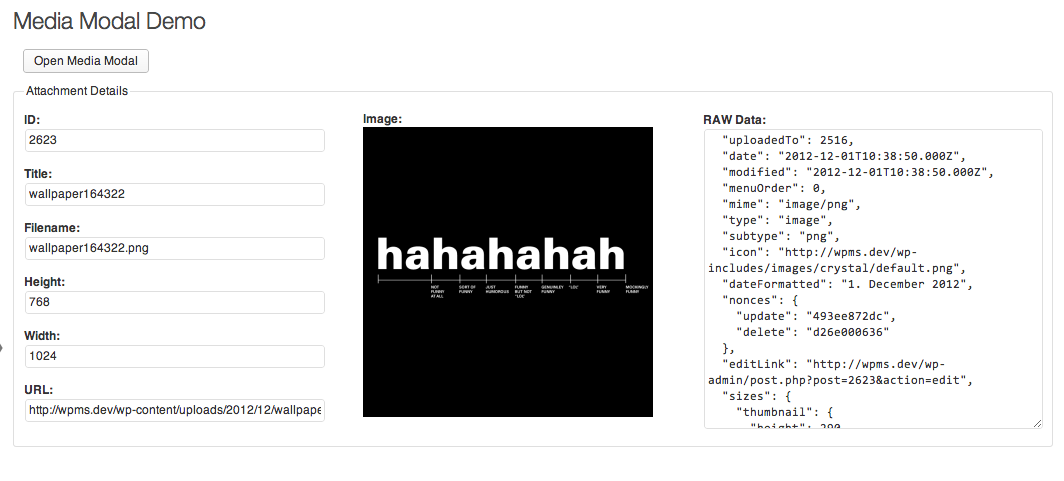
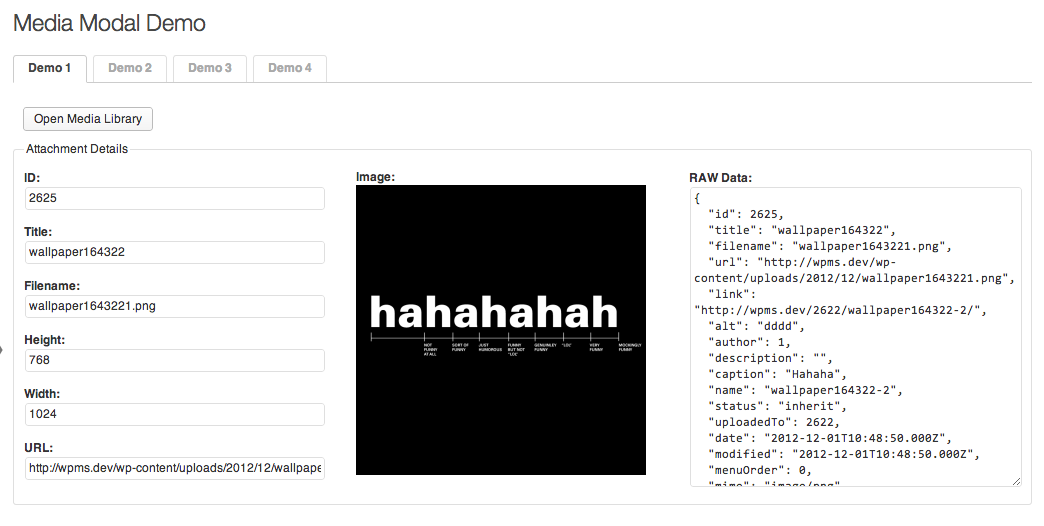
Version 0.3: Third and fourth demo

diff --git a/js/media-modal-demo-4.js b/js/media-modal-demo-4.js
@@ -1,0 +1,70 @@
+var mediaUploaderDemo = mediaUploaderDemo || {};
+
+( function( $ ) {
+	mediaUploaderDemo = {
+		frame: function() {
+			if ( this._frame )
+				return this._frame;
+
+			this._frame = wp.media( {
+				title: 'Select Your Images',
+				button: {
+					text: 'Choose'
+				},
+				multiple: true,
+				library: {
+					type: 'image'
+				}
+			} );
+
+			this._frame.on( 'ready', this.ready );
+
+			this._frame.state( 'library' ).on( 'select', this.select );
+
+			return this._frame;
+		},
+
+		ready: function() {
+			$( '.media-modal' ).addClass( 'no-sidebar smaller' );
+		},
+
+		select: function() {
+			var settings = wp.media.view.settings,
+				selection = this.get( 'selection' );
+
+			$( '.added' ).remove();
+			selection.map( mediaUploaderDemo.showAttachmentDetails );
+		},
+
+		showAttachmentDetails: function( attachment ) {
+			var details_tmpl = $( '#attachment-details-tmpl' ),
+				details = details_tmpl.clone();
+
+			details.addClass( 'added' );
+
+			$( 'input', details ).each( function() {
+				var key = $( this ).attr( 'id' ).replace( 'attachment-', '' );
+				$( this ).val( attachment.get( key ) );
+			} );
+
+			details.attr( 'id', 'attachment-details-' + attachment.get( 'id' ) );
+
+			var sizes = attachment.get( 'sizes' );
+			$( 'img', details ).attr( 'src', sizes.thumbnail.url );
+
+			$( 'textarea', details ).val( JSON.stringify( attachment, null, 2 ) );
+
+			details_tmpl.after( details );
+		},
+
+		init: function() {
+			$( '#open-media-modal' ).on( 'click', function( e ) {
+				e.preventDefault();
+
+				mediaUploaderDemo.frame().open();
+			});
+		}
+	};
+
+	$( mediaUploaderDemo.init );
+} )( jQuery );

diff --git a/js/media-modal-demo-3.js b/js/media-modal-demo-3.js
@@ -1,0 +1,63 @@
+var mediaUploaderDemo = mediaUploaderDemo || {};
+
+( function( $ ) {
+	mediaUploaderDemo = {
+		frame: function() {
+			if ( this._frame )
+				return this._frame;
+
+			this._frame = wp.media( {
+				title: 'Select An Image',
+				button: {
+					text: 'Select'
+				},
+				multiple: false,
+				library: {
+					type: 'image'
+				}
+			} );
+
+			this._frame.on( 'ready', this.ready );
+
+			this._frame.state( 'library' ).on( 'select', this.select );
+
+			return this._frame;
+		},
+
+		ready: function() {
+			$( '.media-modal' ).addClass( 'no-sidebar smaller' );
+		},
+
+		select: function() {
+			var settings = wp.media.view.settings,
+				selection = this.get( 'selection' ).single();
+
+			mediaUploaderDemo.showAttachmentDetails( selection );
+			this._frame.trigger('destroy');
+		},
+
+		showAttachmentDetails: function( attachment ) {
+			var details = $( '#attachment-details' );
+
+			$( 'input', details ).each( function() {
+				var key = $( this ).attr( 'id' ).replace( 'attachment-', '' );
+				$( this ).val( attachment.get( key ) );
+			} );
+
+			var sizes = attachment.get( 'sizes' );
+			$( 'img', details ).attr( 'src', sizes.thumbnail.url );
+
+			$( 'textarea', details ).val( JSON.stringify( attachment, null, 2 ) );
+		},
+
+		init: function() {
+			$( '#open-media-modal' ).on( 'click', function( e ) {
+				e.preventDefault();
+
+				mediaUploaderDemo.frame().open();
+			});
+		}
+	};
+
+	$( mediaUploaderDemo.init );
+} )( jQuery );

diff --git a/js/media-modal-demo-1.min.js b/js/media-modal-demo-1.min.js
@@ -1,6 +1,6 @@
 (function(b){var a={button_id:"#open-media-lib",details_container:"#attachment-details",frame:null,init:function(){b(this.button_id).on("click",this.openMediaDialog);
 },openMediaDialog:function(d){if(this.frame){this.frame.open();return;}this.frame=wp.media.frames.frame=wp.media({title:b(this).data("title"),button:{text:b(this).data("buttonText")},multiple:false,library:{type:"image"}});
-this.frame.on("ready",function(e,f){b(".media-modal").addClass("no-sidebar");});var c=this;this.frame.on("select",function(){var e=c.frame.state().get("selection").first();
+this.frame.on("ready",function(){b(".media-modal").addClass("no-sidebar");});var c=this;this.frame.on("select",function(){var e=c.frame.state().get("selection").first();
 a.handleMediaAttachment(e);});this.frame.open();},handleMediaAttachment:function(e){var c=b(this.details_container);b("input",c).each(function(){var f=b(this).attr("id").replace("attachment-","");
 b(this).val(e.get(f));});var d=e.get("sizes");b("img",c).attr("src",d.thumbnail.url);b("textarea",c).val(JSON.stringify(e.toJSON(),null,2));}};b(document).ready(function(){a.init();
 });})(jQuery);

diff --git a/js/media-modal-demo-4.min.js b/js/media-modal-demo-4.min.js
@@ -1,0 +1,6 @@
+var mediaUploaderDemo=mediaUploaderDemo||{};(function(a){mediaUploaderDemo={frame:function(){if(this._frame){return this._frame;}this._frame=wp.media({title:"Select Your Images",button:{text:"Choose"},multiple:true,library:{type:"image"}});
+this._frame.on("ready",this.ready);this._frame.state("library").on("select",this.select);return this._frame;},ready:function(){a(".media-modal").addClass("no-sidebar smaller");
+},select:function(){var c=wp.media.view.settings,b=this.get("selection");a(".added").remove();b.map(mediaUploaderDemo.showAttachmentDetails);},showAttachmentDetails:function(e){var c=a("#attachment-details-tmpl"),b=c.clone();
+b.addClass("added");a("input",b).each(function(){var f=a(this).attr("id").replace("attachment-","");a(this).val(e.get(f));});b.attr("id","attachment-details-"+e.get("id"));
+var d=e.get("sizes");a("img",b).attr("src",d.thumbnail.url);a("textarea",b).val(JSON.stringify(e,null,2));c.after(b);},init:function(){a("#open-media-modal").on("click",function(b){b.preventDefault();
+mediaUploaderDemo.frame().open();});}};a(mediaUploaderDemo.init);})(jQuery);

diff --git a/css/media-modal-demo.min.css b/css/media-modal-demo.min.css
@@ -1,4 +1,4 @@
 #wrap{width:100%}#settings_page_media-modal-demo .open-media-button{margin:10px}.attachment-fieldset{border:1px solid #dfdfdf;border-radius:3px;padding:0 10px;margin-bottom:30px}
 .attachment-fieldset div{width:33.3333333333%}.attachment-fieldset label{font-weight:700}.attachment-fieldset input,.attachment-fieldset textarea{font-weight:normal}
-.attachment-fieldset textarea{width:100%;height:300px}.no-sidebar .attachments-browser .media-toolbar,.no-sidebar .attachments-browser .attachments,.no-sidebar .attachments-browser .uploader-inline{right:0}
-.no-sidebar .media-sidebar{display:none}
+.attachment-fieldset textarea{width:100%;height:300px}#attachment-details-tmpl{display:none}.media-modal.no-sidebar .attachments-browser .media-toolbar,.media-modal.no-sidebar .attachments-browser .attachments,.media-modal.no-sidebar .attachments-browser .uploader-inline{right:0}
+.media-modal.no-sidebar .media-sidebar{display:none}.media-modal.smaller{top:100px;right:350px;bottom:100px;left:350px}.media-modal.smaller{top:10%;right:15%;bottom:10%;left:15%}

diff --git a/js/media-modal-demo-3.min.js b/js/media-modal-demo-3.min.js
@@ -1,0 +1,6 @@
+var mediaUploaderDemo=mediaUploaderDemo||{};(function(a){mediaUploaderDemo={frame:function(){if(this._frame){return this._frame;}this._frame=wp.media({title:"Select An Image",button:{text:"Select"},multiple:false,library:{type:"image"}});
+this._frame.on("ready",this.ready);this._frame.state("library").on("select",this.select);return this._frame;},ready:function(){a(".media-modal").addClass("no-sidebar smaller");
+},select:function(){var c=wp.media.view.settings,b=this.get("selection").single();mediaUploaderDemo.showAttachmentDetails(b);this._frame.trigger("destroy");
+},showAttachmentDetails:function(d){var b=a("#attachment-details");a("input",b).each(function(){var e=a(this).attr("id").replace("attachment-","");a(this).val(d.get(e));
+});var c=d.get("sizes");a("img",b).attr("src",c.thumbnail.url);a("textarea",b).val(JSON.stringify(d,null,2));},init:function(){a("#open-media-modal").on("click",function(b){b.preventDefault();
+mediaUploaderDemo.frame().open();});}};a(mediaUploaderDemo.init);})(jQuery);

diff --git a/css/media-modal-demo.css b/css/media-modal-demo.css
@@ -31,15 +31,33 @@
 	height: 300px;
 }
 
+#attachment-details-tmpl {
+	display: none;
+}
+
 /**
  * Hide Sidebar
  */
-.no-sidebar .attachments-browser .media-toolbar,
-.no-sidebar .attachments-browser .attachments,
-.no-sidebar .attachments-browser .uploader-inline {
+.media-modal.no-sidebar .attachments-browser .media-toolbar,
+.media-modal.no-sidebar .attachments-browser .attachments,
+.media-modal.no-sidebar .attachments-browser .uploader-inline {
 	right: 0;
 }
 
-.no-sidebar .media-sidebar {
+.media-modal.no-sidebar .media-sidebar {
 	display: none;
+}
+
+.media-modal.smaller {
+	top:    100px;
+	right:  350px;
+	bottom: 100px;
+	left:   350px;
+}
+
+.media-modal.smaller {
+	top:    10%;
+	right:  15%;
+	bottom: 10%;
+	left:   15%;
 }

diff --git a/js/media-modal-demo-1.js b/js/media-modal-demo-1.js
@@ -25,8 +25,7 @@
 				}
 			} );
 
-
-			this.frame.on( 'ready', function( t, r) {
+			this.frame.on( 'ready', function() {
 				$( '.media-modal' ).addClass( 'no-sidebar' );
 			} );
 

diff --git a/media-modal-demo.php b/media-modal-demo.php
@@ -1,7 +1,7 @@
 <?php
 /**
  * Plugin Name: Media Modal Demo
- * Version: 0.2
+ * Version: 0.3
  * Description: Adds an options page, where the new Media Modal can be used to get attachment details
  * Author: Dominik Schilling
  * Author URI: http://wphelper.de/
@@ -41,12 +41,26 @@ if ( ! class_exists( 'WP' ) ) {
 final class Media_Modal_Demo {
 	/**
 	 * Saves the menu page slug
+	 *
+	 * @since 0.1.0
 	 * @var string
 	 */
 	private static $page;
 
-	private static $demo_count = 3;
+	/**
+	 * Number of demos.
+	 *
+	 * @since 0.2.0
+	 * @var int
+	 */
+	private static $demo_count = 4;
 
+	/**
+	 * The current demo.
+	 *
+	 * @since 0.2.0
+	 * @var int
+	 */
 	private static $current_demo;
 
 	/**
@@ -150,6 +164,11 @@ final class Media_Modal_Demo {
 		<?php
 	}
 
+	/**
+	 * Calls the render methods.
+	 *
+	 * @since 0.2.0
+	 */
 	private static function render_demo_page() {
 		switch ( self::$current_demo ) {
 			case 1:
@@ -161,9 +180,17 @@ final class Media_Modal_Demo {
 			case 3:
 				self::render_demo_page_three();
 				break;
+			case 4:
+				self::render_demo_page_fourth();
+				break;
 		}
 	}
 
+	/**
+	 * Renders the first demo.
+	 *
+	 * @since 0.2.0
+	 */
 	private static function render_demo_page_one() {
 		?>
 		<input type="button" class="button open-media-button" id="open-media-lib" value="Open Media Library" data-title="Select An Image" data-button-text="Select" />
@@ -180,7 +207,7 @@ final class Media_Modal_Demo {
 			</div>
 
 			<div class="alignleft">
-				<p><strong>Image:<br/><img id="attachment-src" /></p>
+				<p><strong>Image:</strong><br/><img id="attachment-src" /></p>
 			</div>
 
 			<div class="alignleft">
@@ -190,6 +217,11 @@ final class Media_Modal_Demo {
 		<?php
 	}
 
+	/**
+	 * Renders the second demo.
+	 *
+	 * @since 0.2.0
+	 */
 	private static function render_demo_page_two() {
 		?>
 		<input type="button" class="button open-media-button" id="open-media-editor" value="Open Media Editor" />
@@ -231,6 +263,11 @@ final class Media_Modal_Demo {
 		<?php
 	}
 
+	/**
+	 * Filters media view strings. Used for the the second demo.
+	 *
+	 * @since 0.2.0
+	 */
 	public static function filter_media_view_strings( $strings ) {
 		$strings[ 'insertMediaTitle' ] = 'Select An Image';
 		$strings[ 'insertIntoPost' ] = 'Select';
@@ -238,14 +275,78 @@ final class Media_Modal_Demo {
 		return $strings;
 	}
 
+	/**
+	 * Filters media view settings. Used for the the second demo.
+	 *
+	 * @since 0.2.0
+	 */
 	public static function filter_media_view_settings( $settings ) {
 		$settings[ 'mimeTypes' ] = array( 'image' => $settings[ 'mimeTypes' ][ 'image'] );
 
 		return $settings;
 	}
 
+	/**
+	 * Renders the third demo.
+	 *
+	 * @since 0.2.0
+	 */
 	private static function render_demo_page_three() {
 		?>
+		<input type="button" class="button open-media-button" id="open-media-modal" value="Open Media Library" />
+
+		<fieldset id="attachment-details" class="attachment-fieldset">
+			<legend>Attachment Details</legend>
+
+			<div class="alignleft">
+				<p><label>ID:<br /><input type="text" id="attachment-id" class="regular-text" /></label></p>
+				<p><label>Title:<br /><input type="text" id="attachment-title" class="regular-text" /></label></p>
+				<p><label>Filename:<br /><input type="text" id="attachment-filename" class="regular-text" /></label></p>
+				<p><label>Height:<br /><input type="text" id="attachment-height" class="regular-text" /></label></p>
+				<p><label>Width:<br /><input type="text" id="attachment-width" class="regular-text" /></label></p>
+				<p><label>URL:<br /><input type="text" id="attachment-url" class="regular-text" /></label></p>
+			</div>
+
+			<div class="alignleft">
+				<p><strong>Image:</strong><br/><img id="attachment-src" /></p>
+			</div>
+
+			<div class="alignleft">
+				<p><label>RAW Data:<br /><textarea id="attachment-raw" class="code"></textarea></label>
+			</div>
+		</fieldset>
+		<?php
+	}
+
+	/**
+	 * Renders the fourth demo.
+	 *
+	 * @since 0.3.0
+	 */
+	private static function render_demo_page_fourth() {
+		?>
+		<input type="button" class="button open-media-button" id="open-media-modal" value="Open Media Library" />
+
+		<fieldset id="attachment-details-tmpl" class="attachment-fieldset">
+			<legend>Attachment Details</legend>
+
+			<div class="alignleft">
+				<p><label>ID:<br /><input type="text" id="attachment-id" class="regular-text" /></label></p>
+				<p><label>Title:<br /><input type="text" id="attachment-title" class="regular-text" /></label></p>
+				<p><label>Filename:<br /><input type="text" id="attachment-filename" class="regular-text" /></label></p>
+				<p><label>Height:<br /><input type="text" id="attachment-height" class="regular-text" /></label></p>
+				<p><label>Width:<br /><input type="text" id="attachment-width" class="regular-text" /></label></p>
+				<p><label>URL:<br /><input type="text" id="attachment-url" class="regular-text" /></label></p>
+			</div>
+
+			<div class="alignleft">
+				<p><strong>Image:</strong><br/><img id="attachment-src" /></p>
+			</div>
+
+			<div class="alignleft">
+				<p><label>RAW Data:<br /><textarea id="attachment-raw" class="code"></textarea></label>
+			</div>
+		</fieldset>
 		<?php
 	}
 }
